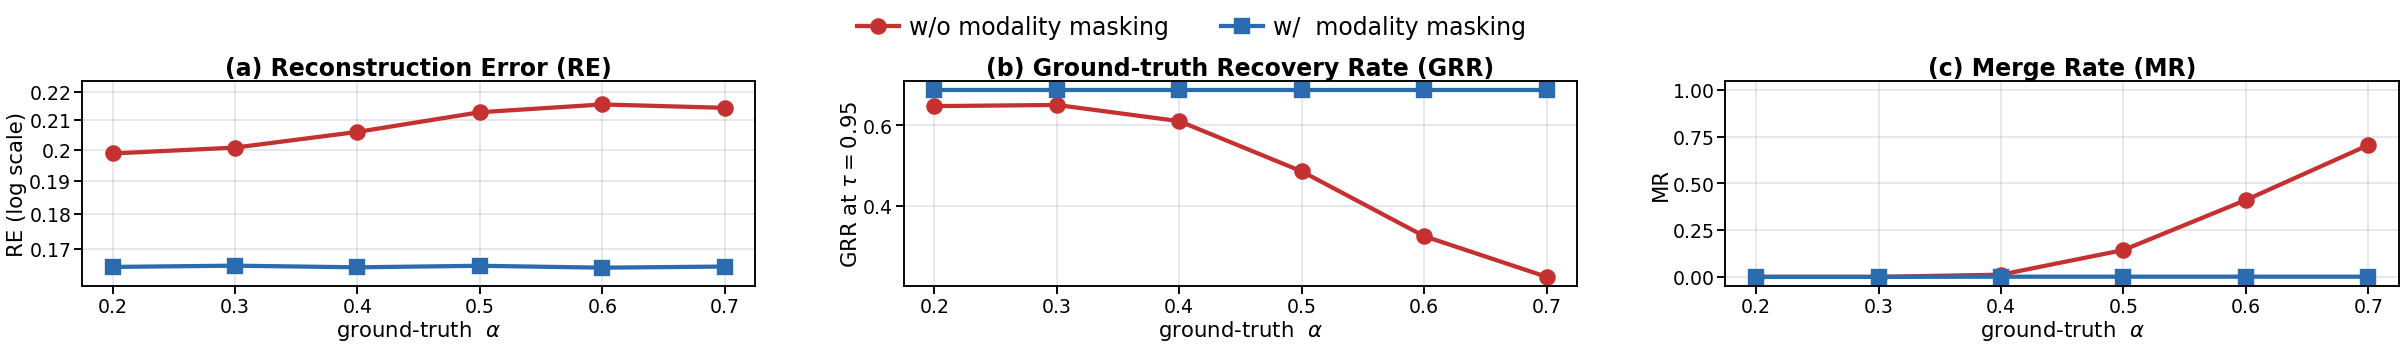
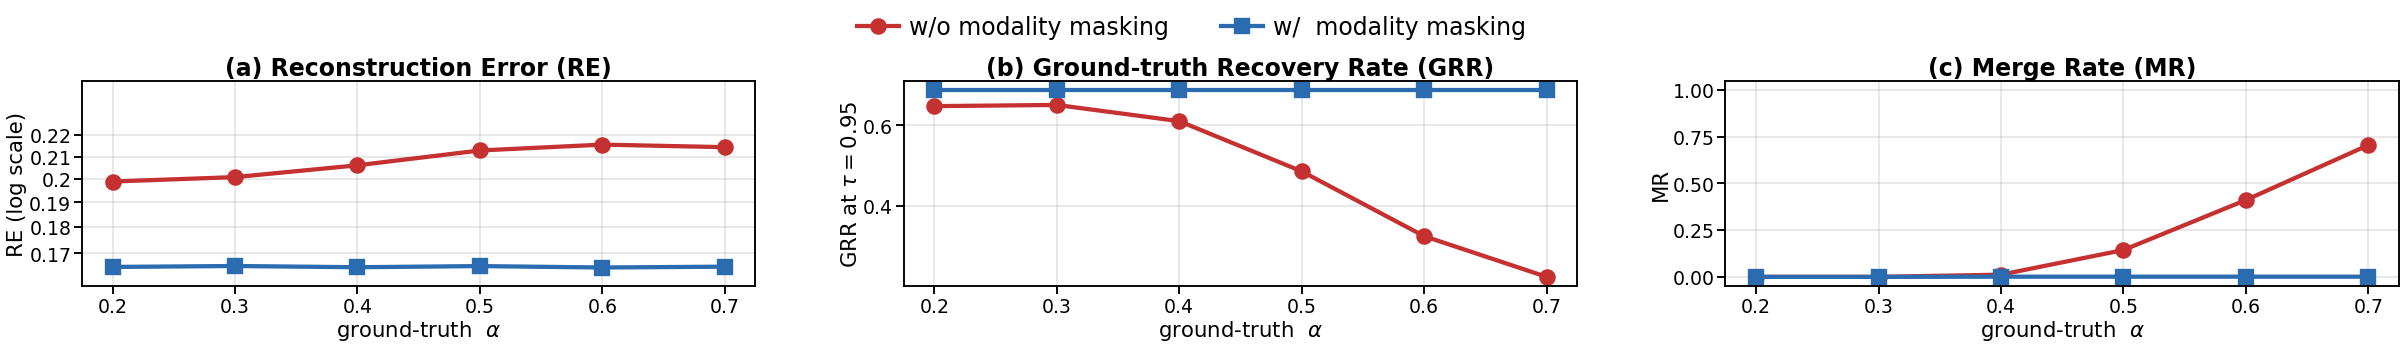
fig1/fig2: more top margin above max RE

diff --git a/scripts/plot_fig1_three_panels.py b/scripts/plot_fig1_three_panels.py
@@ -72,7 +72,7 @@ def make_fig1(json_path: str, out_path: str, alphas_target=(0.2, 0.3, 0.4, 0.5, 
             ax.set_yscale("log")
             y_all = [v for v in y_no + y_yes if v is not None]
             lo, hi = min(y_all), max(y_all)
-            ax.set_ylim(lo * 0.97, hi * 1.04)
+            ax.set_ylim(lo * 0.96, hi * 1.15)
             y_ticks = [0.17, 0.18, 0.19, 0.20, 0.21, 0.22]
             ax.yaxis.set_major_locator(FixedLocator(y_ticks))
             ax.yaxis.set_minor_locator(FixedLocator([]))

diff --git a/scripts/plot_fig2_lambda_sweep.py b/scripts/plot_fig2_lambda_sweep.py
@@ -147,7 +147,7 @@ def make_fig2(root: str, out_path: str):
             )
             y_all = [v for v in y_all if v is not None]
             lo, hi = min(y_all), max(y_all)
-            ax.set_ylim(lo * 0.97, hi * 1.04)
+            ax.set_ylim(lo * 0.96, hi * 1.15)
             y_ticks = [0.2, 0.3, 0.5, 0.7, 1.0]
             ax.yaxis.set_major_locator(FixedLocator(y_ticks))
             ax.yaxis.set_minor_locator(FixedLocator([]))
